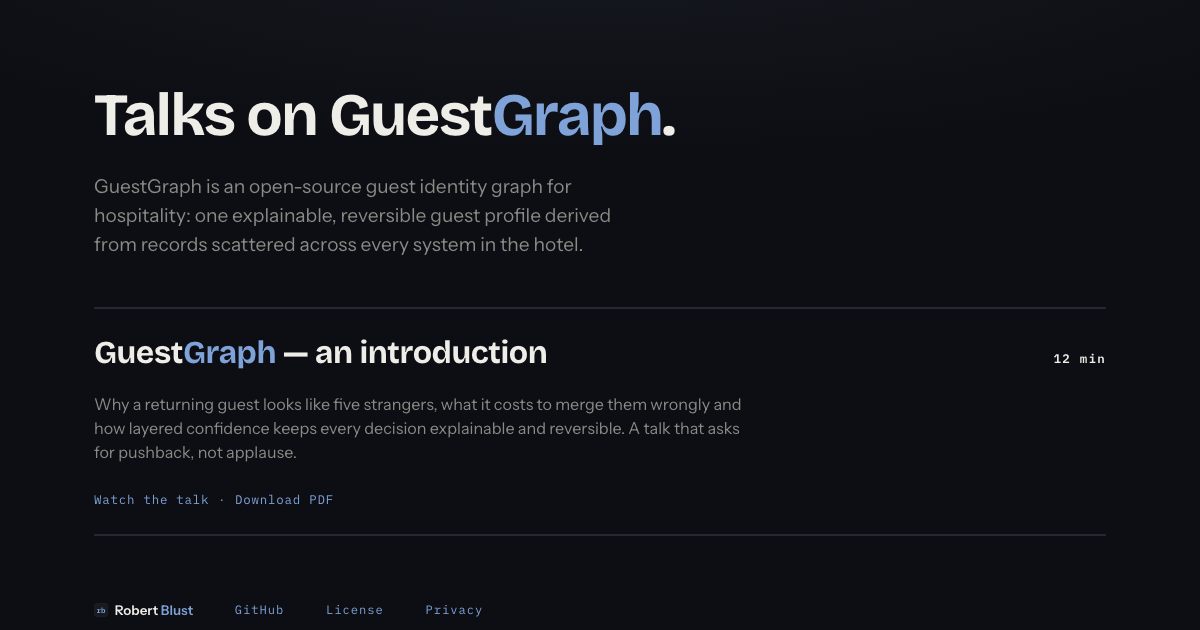
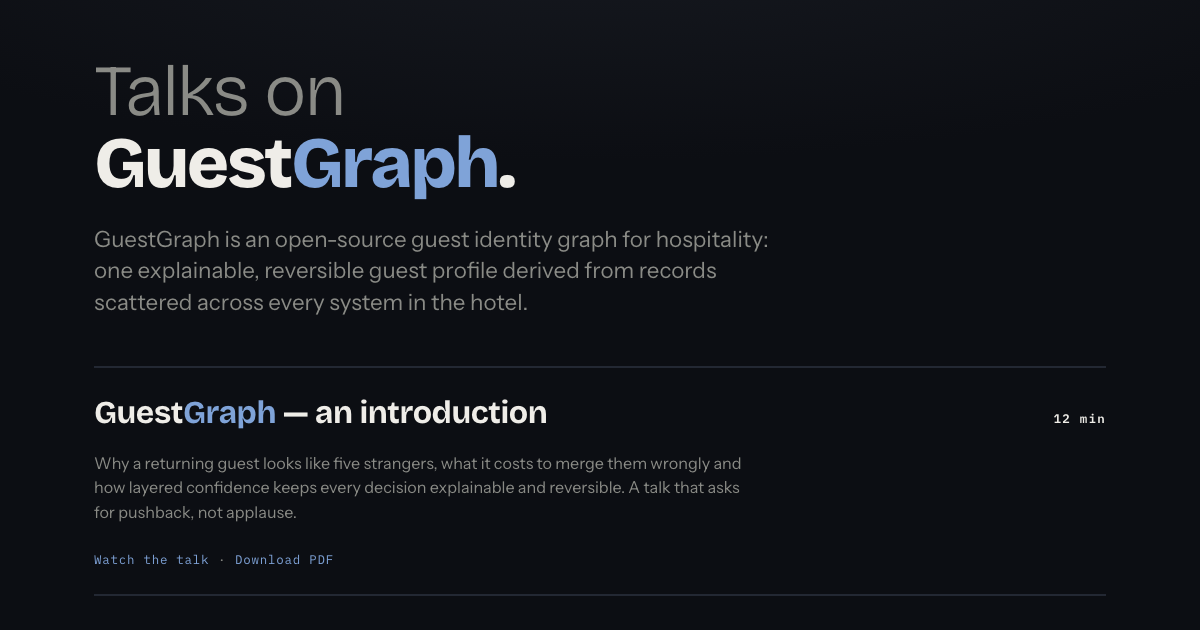
The talks page takes the family's title block
Every other prose page in the family opens the same way: the first clause light and dim, the
completion heavy under it, and a tagline at one measure below. This page opened with a single
line at weight 700 and a smaller lede, so a visitor moving between the sites met two
different designs.

The headline is the sentence it already was, broken in two — "Talks on" over "GuestGraph." —
and the German follows the same break. The em keeps its own color here: it is not a word
being emphasized but the wordmark's second half, and the wordmark's rule is Guest in ink,
Graph in the brand accent, wherever it appears. The share card is re-rendered because the
headline is what a card shows, and the translates sample quoted the headline's old shape.

Verified: npm run verify, all five pages pass; og:check, design:check and test:og pass, each
exit code read on its own; conventions-sync check and conventions-check pass.

diff --git a/talks/index.html b/talks/index.html
@@ -452,13 +452,21 @@
      column of content sitting above a screen-height void */
   main{flex:1; display:flex; align-items:center; padding:2vh 0 5vh}
 
-  h1{font-family:"Bricolage Grotesque", ui-sans-serif, system-ui, sans-serif;
-     font-weight:700; line-height:1.04; letter-spacing:-.032em; font-size:clamp(2.1rem,5vw,3.9rem); max-width:21ch}
-  /* the wordmark, wherever it appears: Guest in ink, Graph in the brand accent */
+  /* The title block every prose page in the family carries: the first clause light and dim,
+     the completion heavy under it, and a tagline at one measure below. The page's subject is
+     what changes between pages, never the shape. */
+  .title h1{font-family:"Bricolage Grotesque", ui-sans-serif, system-ui, sans-serif;
+            letter-spacing:-.035em; line-height:1.0;
+            font-size:clamp(2.2rem,6vw,4.6rem)}
+  .title h1 .r70{display:block; font-weight:300; color:var(--dim)}
+  .title h1 .rcl{display:block; font-weight:800}
+  /* The accent word in that block is --c-firm elsewhere. Here the em is not a word being
+     emphasized, it is the wordmark's second half, so it keeps the rule the wordmark keeps
+     wherever it appears: Guest in ink, Graph in the brand accent. */
   h1 em{font-style:normal; color:var(--c-mid)}
   .t em{font-style:normal; color:var(--c-mid)}
-  .lede{margin-top:1.6rem; font-size:clamp(1.05rem,1.6vw,1.35rem); color:var(--dim);
-        max-width:44ch}
+  .tagline{margin-top:1.6rem; font-size:clamp(1.1rem,1.9vw,1.4rem); color:var(--dim);
+           max-width:46ch; line-height:1.4}
 
   .talks{margin-top:clamp(3rem,6vh,5rem)}
   .talk{
@@ -520,7 +528,7 @@
   :focus-visible{outline:2px solid var(--c-mid); outline-offset:3px; border-radius:3px}
 
   @media (max-width:900px){
-    .lede{max-width:100%}
+    .tagline{max-width:100%}
     /* the nav items and the wordmark do not fit a phone on one line. Letting the bar wrap
        keeps them all legible; squeezing them instead broke “DE · EN” across two lines. */
     main{padding:1vh 0 4vh}
@@ -557,8 +565,10 @@
 
 <main>
   <div class="shell">
-    <h1 data-de="Vorträge über Guest<em>Graph</em>.">Talks on Guest<em>Graph</em>.</h1>
-    <p class="lede" data-de="GuestGraph ist ein Open-Source-Identitätsgraph für Gäste in der Hotellerie: ein erklärbares, umkehrbares Gastprofil, abgeleitet aus Datensätzen, die über jedes System im Hotel verstreut liegen.">GuestGraph is an open-source guest identity graph for hospitality: one explainable, reversible guest profile derived from records scattered across every system in the hotel.</p>
+    <div class="title">
+      <h1 data-de="<span class='r70'>Vorträge über</span><span class='rcl'>Guest<em>Graph</em>.</span>"><span class="r70">Talks on</span><span class="rcl">Guest<em>Graph</em>.</span></h1>
+      <p class="tagline" data-de="GuestGraph ist ein Open-Source-Identitätsgraph für Gäste in der Hotellerie: ein erklärbares, umkehrbares Gastprofil, abgeleitet aus Datensätzen, die über jedes System im Hotel verstreut liegen.">GuestGraph is an open-source guest identity graph for hospitality: one explainable, reversible guest profile derived from records scattered across every system in the hotel.</p>
+    </div>
 
     <div class="talks">
       <div class="talkrow">
